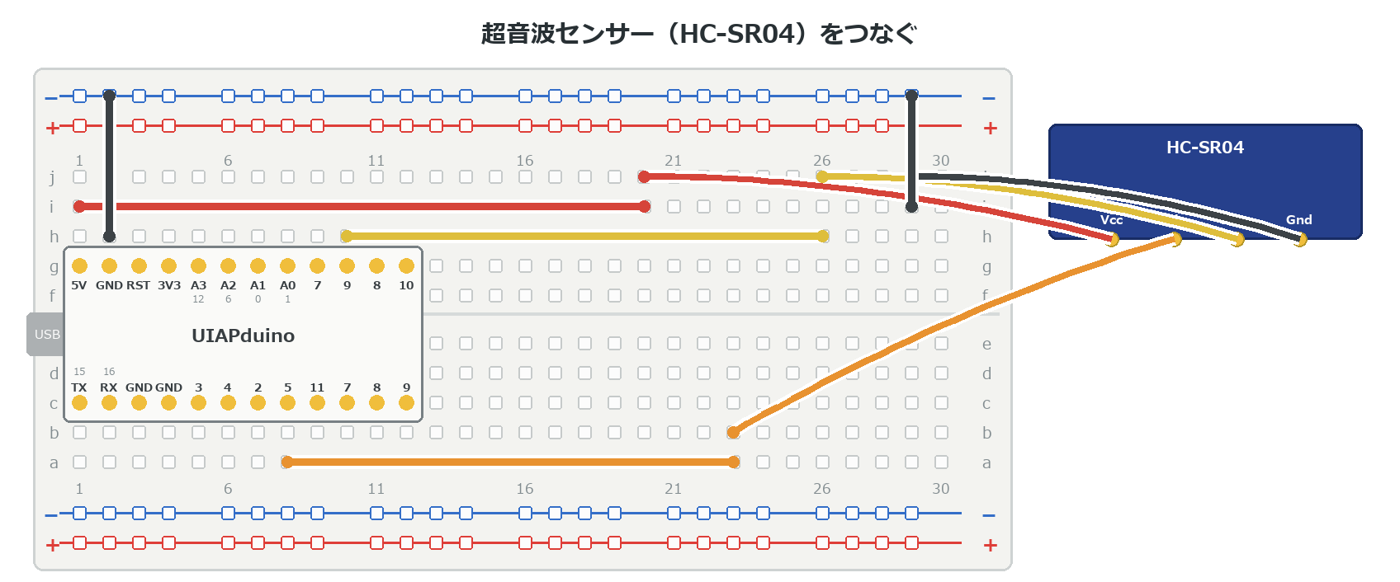
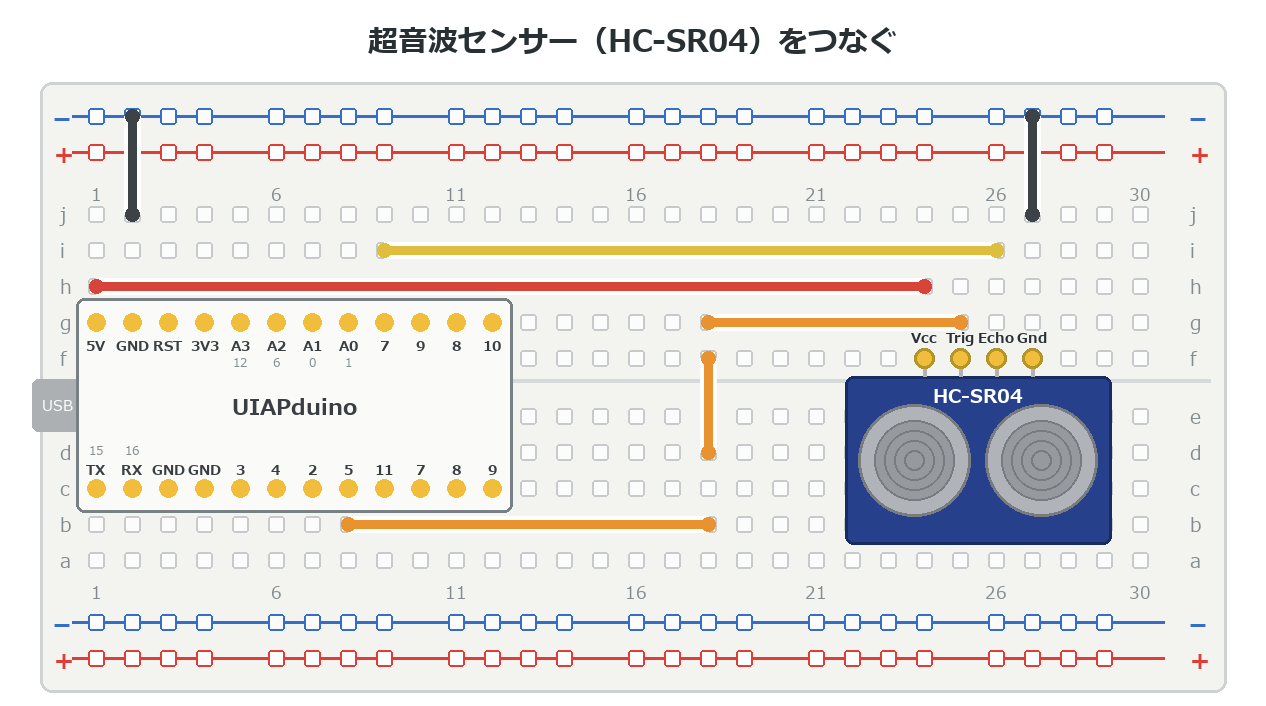
e3 の HC-SR04 を ブレッドボードにさす形に描きなおした
サンプル写真でボードの外に置いてあったのは端子名を写すためで、
実際にはブレッドボードにさして使う、とのことなので直した。

- 端子4本を f行 の 24〜27列 にさし、本体は 溝がわへ のびる形にした
  （こうすると g〜j行 があくので、ジャンパーをさす穴が見える）
- 端子名 Vcc・Trig・Echo・Gnd は本体の外（端子の上）に出して読めるようにした

配線:
- Vcc  … h行（1〜24列）→ 5V
- Echo … i行（9〜26列）→ 7番（上がわ）
- Gnd  … 27列の j行 から 上の −レールへ
- Trig … 5番ピンが下がわにしかないため、g行 → 18列で溝をこえる → b行 と
  3本でつないだ。最初は1本の斜めの線にしたが、マイコンのピン名を
  隠してしまうため、まっすぐな3本に変えた

線の交差はゼロ。

Changed region(s): [[0.0, 0.1546, 0.9858, 0.9897], [0.2773, 0.0309, 0.7085, 0.0928], [0.7393, 0.0928, 0.955, 0.1237]]

diff --git a/docs/e3_distance/index.html b/docs/e3_distance/index.html
@@ -85,7 +85,7 @@
 
 :::
 
-![Vcc→5V、Trig→5番、Echo→7番、Gnd→GND](image/index/bb_sr04.png)
+![Trig は 5番ピンが下がわなので、18列で溝をこえて配線する](image/index/bb_sr04.png)
 
 ---
 

diff --git a/tools/bb.py b/tools/bb.py
@@ -262,6 +262,30 @@ def cds(d, col, row):
                fill=(120, 110, 70), width=3)
     center(d, mx, my + 34, "CdS", bold(15), (120, 100, 40))
 
+def sr04(d, col, row, pins=("Vcc", "Trig", "Echo", "Gnd")):
+    """HC-SR04。端子4本を1行にさす。本体は端子の行から 溝がわへ のびる。"""
+    y = cy(row)
+    x1, x2 = cx(col) - 2.2 * PITCH, cx(col + 3) + 2.2 * PITCH
+    top = y + 18
+    d.rounded_rectangle([x1, top, x2, top + 168], radius=8,
+                        fill=(38, 64, 140), outline=(24, 44, 100), width=3)
+    for k in (0.26, 0.74):
+        mx = x1 + (x2 - x1) * k
+        my = top + 84
+        d.ellipse([mx - 56, my - 56, mx + 56, my + 56], fill=(176, 180, 184),
+                  outline=(120, 124, 128), width=3)
+        d.ellipse([mx - 40, my - 40, mx + 40, my + 40], fill=(150, 154, 158),
+                  outline=(120, 124, 128), width=2)
+        for r in (30, 20, 10):
+            d.ellipse([mx - r, my - r, mx + r, my + r], outline=(120, 124, 128), width=2)
+    center(d, (x1 + x2) / 2, top + 6, "HC-SR04", bold(19), WHITE)
+    for i, lab in enumerate(pins):
+        x = cx(col + i)
+        d.line([x, y, x, top], fill=(176, 180, 182), width=4)
+        d.ellipse([x - 10, y - 10, x + 10, y + 10], fill=GOLD,
+                  outline=(180, 150, 40), width=3)
+        center(d, x, y - 30, lab, bold(14), INK)
+
 def ext_module(d, x, y, w, h, title, pins, pin_col=GOLD):
     """ボードの外に置く部品（HC-SR04・サーボなど）。pins は端子名のならび。
     もどり値は 各端子の (x, y)。"""

diff --git a/content/e3_distance/index.md b/content/e3_distance/index.md
@@ -72,7 +72,7 @@ wip: 写真まち
 
 :::
 
-![Vcc→5V、Trig→5番、Echo→7番、Gnd→GND](image/index/bb_sr04.png)
+![Trig は 5番ピンが下がわなので、18列で溝をこえて配線する](image/index/bb_sr04.png)
 
 ---
 
